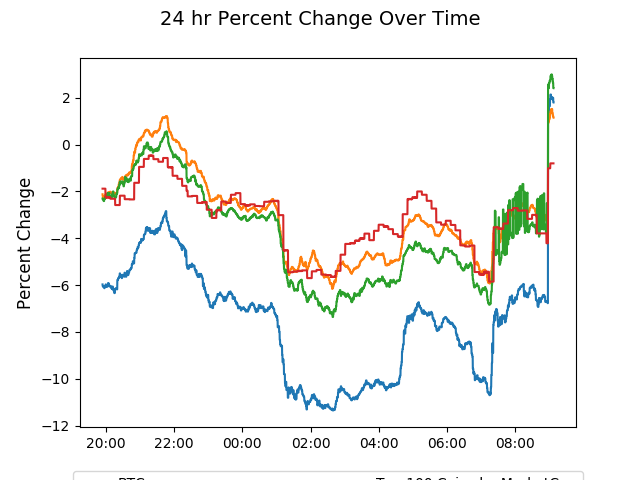
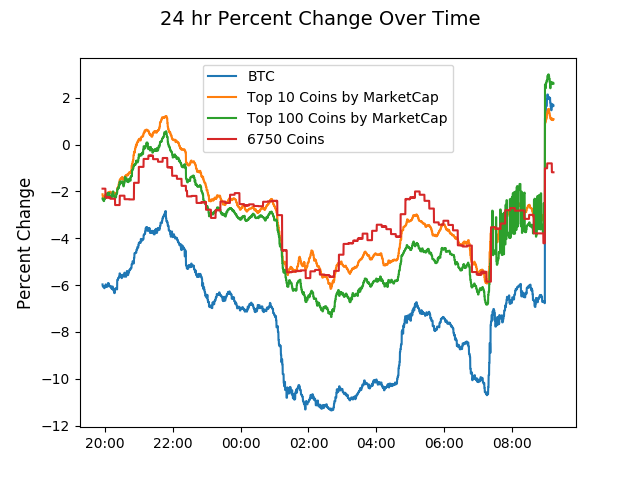
why won't it upload my pretty pictures

diff --git a/plot.py b/plot.py
@@ -72,8 +72,8 @@ ax.plot(y_val,x3_val, label = "Top 100 Coins by MarketCap")
 name = str(testList[0][3][1]) + " Coins"
 ax.plot(y_val,x4_val, label = name)
 
-ax.legend(loc='upper center', bbox_to_anchor=(0.5, -0.1), ncol=2)
-
+#ax.legend(loc='upper center', bbox_to_anchor=(0.5, -0.05), ncol=2)
+ax.legend()
 ax.xaxis.set_major_formatter(mdates.DateFormatter("%H:%M"))
 ax.xaxis.set_minor_formatter(mdates.DateFormatter("%H:%M"))
 #_=plt.xticks(rotation=90) 
